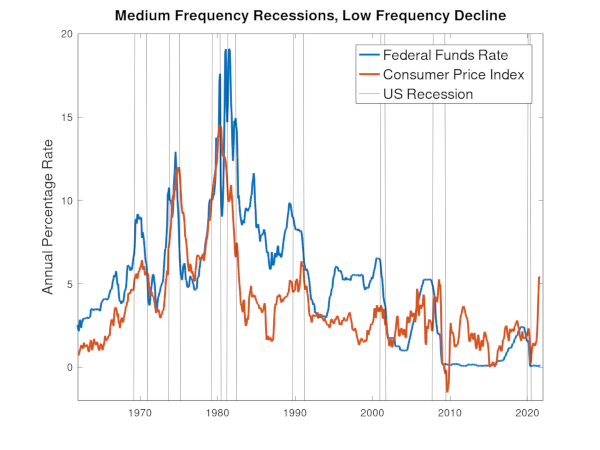
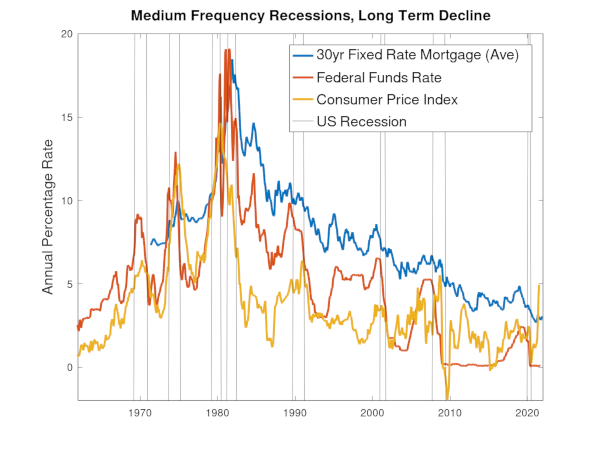
P/R Ratio data update and publish

diff --git a/Secular-Destination/index.html b/Secular-Destination/index.html
@@ -223,11 +223,10 @@
 	<span style="white-space:nowrap;">(&Delta;&pi; = CPI - E&pi;)</span>.
 </p>
 <img src="expectation-augmented-breakout.png">
-<p> Indeed, comparing the simple CPI scatterplot from
-	<a href="#phillips-curve">above</a> vs. the CPI and forecasted long-term
-	inflation gap produces a steep, relatively stable correlation between
-	inflation and unemployment during periods attributable to supply shocks
-	and a dramatic flattening after 2013.
+<p> Comparing the simple CPI scatterplot with this plot of the forecasted
+	long-term inflation gap produce a steeper, more consistent correlation
+	between inflation and unemployment during periods attributable to supply
+	shocks and a dramatic flattening after 2013.
 </p>
 <img src="cpi-phillips-curve.png" width="300px">
 <img src="expectation-augmented-colormap.png" width="300px">
@@ -284,21 +283,20 @@
 	&pi; is inflation.
 </p>
 <img src="fisher-eq.png">
-<p> A second monetarist critique of <a href="#inflation">"anchored" inflation
-	expectations</a>, is a simple assertion: a currency	debased from physical
-	commodities, like gold, but re-based on an abstract commodity, natural
-	numbers, will have a natural real interest rate of zero.
+<p> A second monetarist critique of <a href="#phillips-curve">new-Keynesian
+	inflation expectations</a>, is a simple assertion: a currency	debased from
+	physical commodities like gold and re-based on an abstract commodity,
+	natural numbers, will have a natural real interest rate of zero.
 	Compare the graph used to make the case for inflation expectations with
-	a graph of nominal interest rates:
+	the graph of nominal interest rates:
 </p>
 <img src="nakamura-inflation-expectations.png" width="300px">
-<img src="interest-and-inflation-rates.png" width="300px;">
-<p> The same initial insight of <a href="#phillips-curve">inflation
-	expectations</a>, that inflation follows
-	expectations, also appears true of a graph of inflation following interest
-	rates! As we <a href="#zlb">have seen</a>, the Federal Reserve has
-	consistently failed to restore nominal interest rates to previous levels
-	during times of economic expansion. If the natural real interest rate is zero,
+<img src="interest-and-inflation-rates.png" width="360px;">
+<p> The same initial insight that inflation follows expectations
+	also appears true of a graph of inflation following interest
+	rates.  Since the Federal Reserve has	consistently failed to restore nominal
+	interest rates to previous levels during times of economic expansion,
+	if the natural real interest rate is zero,
 	then the Federal Reserve's policies alone would account for the low inflation
 	(<span style="white-space:nowrap;">r = 0 &Rightarrow; &pi; = i</span>).
 	Ironically stable prices!
@@ -354,8 +352,8 @@
 	solution to monetary policy hitting the ZLB (due to overuse of loose rates)
 	is loose fiscal policy?
 </p>
-<p> A second reason to combat "secular stagnation" is the assumed link between
-	natural real interest rates and technological/economic growth.
+<p> The more compelling reason to combat "secular stagnation" is the assumed
+	link between natural real interest rates and technological/economic growth.
 </p>
 <p><i> Economic theory implies that the natural rate of interest varies over
 	time in response to shifts in preferences and technology.
@@ -368,7 +366,7 @@
 	and Williams, 2001</a>)
 </p>
 <img src="lw-optimal-growth.png">
-<p> This equation emphasizes the demand for loan investments on the cost of
+<p> This theory emphasizes the demand for loan investments on the cost of
 	money (r). This makes sense for commodity backed currencies but should be
 	irrelevent for currencies backed by natural numbers&mdash;when money is
 	backed by an infinite commodity, there is no marginal cost associated with
@@ -376,7 +374,7 @@
 </p>
 <p> Finally, there is some empirical evidence that the natural real interest
 	rate approaches zero, and that this should be considered a
-	technological/civic advancement in its own right, "secular destination".
+	technological/civic advancement in its own right&mdash;secular destination.
 	The shift away from precious metals did not happen in an instant,
 	consider this result from
 	<a href="https://economics.rutgers.edu/downloads-hidden-menu/news-and-events/workshops/money-history-and-finance/1823-paulschmelzing/file">
@@ -389,7 +387,7 @@
 <article id="inequality">
 <a href="#top">top</a>
 <h2>5. Interest Rates and Inequality</h2>
-<p> This criticism of the Federal Reserve's dogma for
+<p> This criticism of the Federal Reserve's dogma on
 	inflation and interest rates has relied on two old Monetary equations,
 	the quantity theory of money
 	(<span style="white-space:nowrap;">MV = PT</span>) and the Fisher equation
@@ -454,11 +452,11 @@
 	wealth" in terms of the economy is getting heavier, due to reasons such as
 	monopoly rents due to large corporations' dominant position.
 </p>
+<img src="inequality1-pikettyetal.png" width="450px;">
 <p> With a second graph, he implies that wealth inequality follows the
 	same U-shaped curve:
 </p>
-<img src="inequality1-pikettyetal.png" width="300px;">
-<img src="inequality2-saez-speech.png" width="300px;">
+<img src="inequality2-saez-speech.png" width="450px;">
 <p> Another measure of this "weight of wealth" shown in the first graph is
 	presented in <a href="https://gabriel-zucman.eu/files/SaezZucman2020JEP.pdf">
 	The Rise in Income and Wealth Inequality in America: Evidence from
@@ -478,7 +476,7 @@
 	S&amp;P 500 (blue).
 </p>
 <img src="inequality3-saez-zucman-2020.png" width="300px;">
-<img src="../Real-Estate/peratio.png" width="300px;">
+<img src="../Real-Estate/peratio.png" width="360px;">
 <p> Future research to quantify this source "mechanical" growth in wealth
 	inequity must be done by the Federal Reserve, especially as
 	interest rates are a part of its mandate directed by Congress.

diff --git a/Real-Estate/price-to-rent-ratio.html b/Real-Estate/price-to-rent-ratio.html
@@ -24,47 +24,49 @@
 	</script>
 </header>
 <aside>
-<a href="../index.html"><img src="#" alt="snth.us"></a>
+<a href="index.html"><img src="#" alt="snth.us"></a>
 </aside>
 <div id="vertical-div-containing-article-and-navigation">
 <hr>
 <article>
 <h1>Price to Rent Ratio</h1>
-<h2>Sep. 1, 2021</h2>
-<p> The price to rent ratio (P/R) is a well known litmus test for real
-  estate deals. For example, if you could rent a $180,000 home for
+<h2>Nov. 13, 2021</h2>
+<p> The price to rent ratio (R<sub>pr</sub>) is a well known litmus test for
+	real estate deals. For example, if you could rent a $180,000 home for
 	$1500/month, the P/R ratio is 120 months.
 </p>
-<img src="prratio.gif">
-<p> There is no quick, easy thumbrule for a good P/R ratio. One can
-	see below that the median P/R ratio (black curve) has trended upward
-	over the last 50 years, based on FRED data on median sales price of
-	US homes (<a href="https://fred.stlouisfed.org/series/MSPUS">MSPUS</a>)
-  and a unitless rent index
-  (<a href="https://fred.stlouisfed.org/series/CUUR0000SEHA">CUUR0000SEHA</a>).
+<img src="prratio-eq.png">
+<p> A popular P/R thumbrule is the
+<a href="https://www.jasonhartman.com/3-things-youll-learn-from-a-good-income-property-calculator-and-one-you-wont/">1% rule</a>
+	(Jason Hartman), which says a good ratio is
+	<span style="white-space:nowrap;">R<sub>pr</sub> &leq; 100</span>.
+	However my <a href="mortgage-calculator.html">mortgage calculator</a>
+	does not display R<sub>pr</sub> because good P/R ratios change over time
+	and it would clutter the results.
 </p>
-<p> The hypothesis of the
-  <a href="marginal-dividend.html">marginal dividend model</a>
-  is that a target P/R ratio is set by combination of fiat monetary
-	policy in parallel with a real-economy "resistance to becoming
-	rundown". The Federal Reserve provides enough public data for a
-	quick test, and the result is plotted below with a P/R index
-	(black) normalized to the model (red) in December 2015.
-	To improve credibility, US recessions are shown and the data
-	starts the year Nixon suspended the gold standard.
+<p> The graph below shows the median P/R ratio has changed dramatically over
+	the	last 50 years, based on FRED data on median sales price of US homes and
+	a unitless rent index.
 </p>
-<img src="resistance-ratio.png">
+<img src="prratio.png">
+<p> Why does this thumbrule change? The hypothesis of the
+  <a href="mortgage-dividend.html">mortgage dividend model</a>
+  is that a target R<sub>pr</sub> is set by combination of fiat interest rate
+	policy in parallel with a real-economy "resistance to becoming rundown" i.e.
+	maintenance expenses, taxes, etc. The graph above shows a test of the
+	hypothesis with the model (red) and a P/R index (blue) normalized to the
+	model in December 2015.
+</p>
 <h2>Should I Buy or Rent?</h2>
-<p> The model provides a target of where fair market property prices are
-  headed based on federal policy. With the real price ratio (black)
+<p> The model provides a target of where market property prices are likely
+  headed based on federal policy. With the real price ratio (blue)
   normalized to the model (red) in Dec. 2015, it looks like property
-  prices in April 2021 were quickly recovering to the target but
-	not yet in a bubble.
-  </p>
+  prices in 2021 Q3 have quickly recovered and should probably peak soon
+	relative to rents.
+</p>
 <p> Is the model valid?
-  You can read more about the model in the series
-  <a href="index.html">
-    <span style="white-space:nowrap;">Should I Buy or Rent?</span></a>
+  You can read more about the model in the
+	<a href="index.html">mortgage calculator series</a>.
   The graph is based on the FRED datasets cited below, but I also relied
 	on an anecdotal value of 180 months for the "run down resistance"
 	<span style="font-family:monospace;">Rreal</span>	based on my personal
@@ -77,7 +79,7 @@
 <pre>
 clear;
 clc;
-run('<a href="../Economic-Data/econdata.m">econdata.m</a>'); % Functions for importing and manipulating data
+run('econdata.m'); % Functions for importing and manipulating data
 
 mort30us = import_fred_csv('Data\MORTGAGE30US.csv');   % percent apr
 mspus = import_fred_csv('Data\MSPUS.csv');             % dollars
@@ -103,19 +105,18 @@ scale = Rth(2,ind1) / (Vmed(2,ind2)/(Irent(2,ind2)));
 pr_index(1,:) = pr_range(1) : pr_range(2);
 pr_index(2,:) = scale * Vmed(2,:)./Irent(2,:);
 
-plot(pr_index(1,:)/12, pr_index(2,:), 'k');
+plot(pr_index(1,:)/12, pr_index(2,:), "linewidth", 2, ';US Median Sales P/R Index;');
 hold on;
-plot(Rth(1,:)/12, Rth(2,:), 'r');
-plot(recessions(1,:)/12, 70*recessions(2,:)+40);
-title("Median Sales Price to Rent Index, normalized to Dec. 2015");
-h = ["Median Sales P/R Index"; "Marginal Dividend P/R Ratio"; "US Recessions"];
-legend(h, "location","southeast");
-ylabel("months");
-axis([1968, 2023,40,110]);
+plot(Rth(1,:)/12, Rth(2,:), "linewidth", 2, ';Mortgage Dividend R(pr);');
+plot(recessions(1,:)/12, 70*recessions(2,:)+40, "k:;US Recessions;");
 hold off;
+titl = title("Median Sales Price to Rent Index, normalized at Dec. 2015, 97.3");
+lege = legend("location","southeast");
+ylab = ylabel("Months of Rent");
+axis([1968, 2023,40,110]);
 </pre>
 
-<h2>Citations</h2>
+<h2>Data Citations</h2>
 <p>	U.S. Census Bureau and U.S. Department of Housing and Urban
 	Development, Median Sales Price of Houses Sold for the United
 	States [MSPUS], retrieved from FRED, Federal Reserve Bank of St.

diff --git a/index.html b/index.html
@@ -23,30 +23,10 @@ Newer &uarr; |
 </section>
 <hr>
 <section>
-	<h2><span class="date">[draft] |
-		<a href="Secular-Destination/index.html">Secular Destination</a>
-	</span></h2>
-	<p>About the ironies of the Federal Reserve and the debate on
-		wealth inequality.
-</section>
-<section>
-	<h2><span class="date">[draft] |
-		<a href="Real-Estate/price-to-earnings-ratio.html">Price to Earnings Ratio</a>
-	</span></h2>
-	<p>How expensive is the housing market compared to stocks?</p>
-</section>
-<section>
-	<h2><span class="date">[draft] |
+	<h2><span class="date">13 NOV 2021 |
 		<a href="Real-Estate/price-to-rent-ratio.html">Price to Rent Ratio</a>
 	</span></h2>
 	<p>How expensive is the housing market compared to the past?</p>
-</section>
-<section>
-	<h2><span class="date">[draft] |
-		<a href="Real-Estate/mortgage-calculator.html">Mortgage Calculator</a>
-	</span></h2>
-	<p>A mortgage calculator for comparing real estate to stocks,
-	with a surprising result!</p>
 </section>
 <section>
 	<h2><span class="date">28 APR 2021 |

diff --git a/Real-Estate/index.html b/Real-Estate/index.html
@@ -16,7 +16,7 @@
 <div id="vertical-div-containing-article-and-navigation">
 <hr>
 <article>
-<h1>Should I Buy or Rent?</h1>
+<h1>Mortgage Calculator Series</h1>
 <p> Calculating fair market value for a home purchase or saying no and
 	just renting could save you months of income.
 	The following calculators are based on my first home purchase
@@ -31,7 +31,7 @@
 </p>
 <ol>
 	<li><a href="mortgage-calculator.html">Mortgage Calculator</a></li>
-	<li><a href="marginal-dividend.html">Marginal Dividend Model</a></li>
+	<li><a href="mortgage-dividend.html">Mortgage Dividend Model</a></li>
 	<li><a href="normal-expenses.html">Expense Normalization</a></li>
 	<li><a href="price-to-rent-ratio.html">Price to Rent Ratio</a> </li>
 	<li><a href="equity-buildup.html">Equity Yield</a></li>

diff --git a/Economic-Data/real_interest.m b/Economic-Data/real_interest.m
@@ -2,6 +2,7 @@ clear;
 clc;
 run('econdata.m');
 
+home_apr = s2m_data(import_fred_csv('Data/MORTGAGE30US.csv'));   % percent apr
 deficit = s2m_data(import_fred_csv('Data/FYFSD.csv')); % millions per year
 deficit(2,:) = -1*deficit(2,:);
 debt = s2m_data(import_fred_csv('Data/GFDEBTN.csv'));  % millions
@@ -202,14 +203,15 @@ set(ylab, "fontsize", 14);
 %
 %}
 %============================= Interest and Inflation ==============%
-%{
-plot(int_rt(1,:)/12, int_rt(2,:), "linewidth", 2, ";Federal Funds Rate;");
+%
+plot(home_apr(1,:)/12, home_apr(2,:), "linewidth", 2, ";30yr Fixed Rate Mortgage (Ave);");
 hold on;
+plot(int_rt(1,:)/12, int_rt(2,:), "linewidth", 2, ";Federal Funds Rate;");
 plot(cpi(1,:)/12, cpi(2,:), "linewidth", 2, ";Consumer Price Index;");
 plot(recess(1,:)/12, 40*(recess(2,:)-.5), ":k;US Recession;");
 hold off;
 lege = legend("location", "northeast");
-titl = title("Medium Frequency Recessions, Low Frequency Decline");
+titl = title("Medium Frequency Recessions, Long Term Decline");
 axis([1962, 2022, -2, 20]);
 ylab = ylabel("Annual Percentage Rate");
 set(lege, "fontsize", 14);
@@ -217,4 +219,6 @@ set(titl, "fontsize", 14);
 set(ylab, "fontsize", 14);
 %}
 
+%{
 plot(wage_change(1,:)/12, wage_change(2,:), R2(1,:)/12, R2(2,:)/6, recess(1,:)/12, 10*(recess(2,:)-.5), drgdp(1,:)/12, drgdp(2,:));
+%}

diff --git a/Economic-Data/prratio.m b/Economic-Data/prratio.m
@@ -28,7 +28,7 @@ pr_index(2,:) = scale * Vmed(2,:)./Irent(2,:);
 
 plot(pr_index(1,:)/12, pr_index(2,:), "linewidth", 2, ';US Median Sales P/R Index;');
 hold on;
-plot(Rth(1,:)/12, Rth(2,:), "linewidth", 2, ';Mortgage Dividend P/R Model;');
+plot(Rth(1,:)/12, Rth(2,:), "linewidth", 2, ';Mortgage Dividend R(pr);');
 plot(recessions(1,:)/12, 70*recessions(2,:)+40, "k:;US Recessions;");
 hold off;
 titl = title("Median Sales Price to Rent Index, normalized at Dec. 2015, 97.3");
